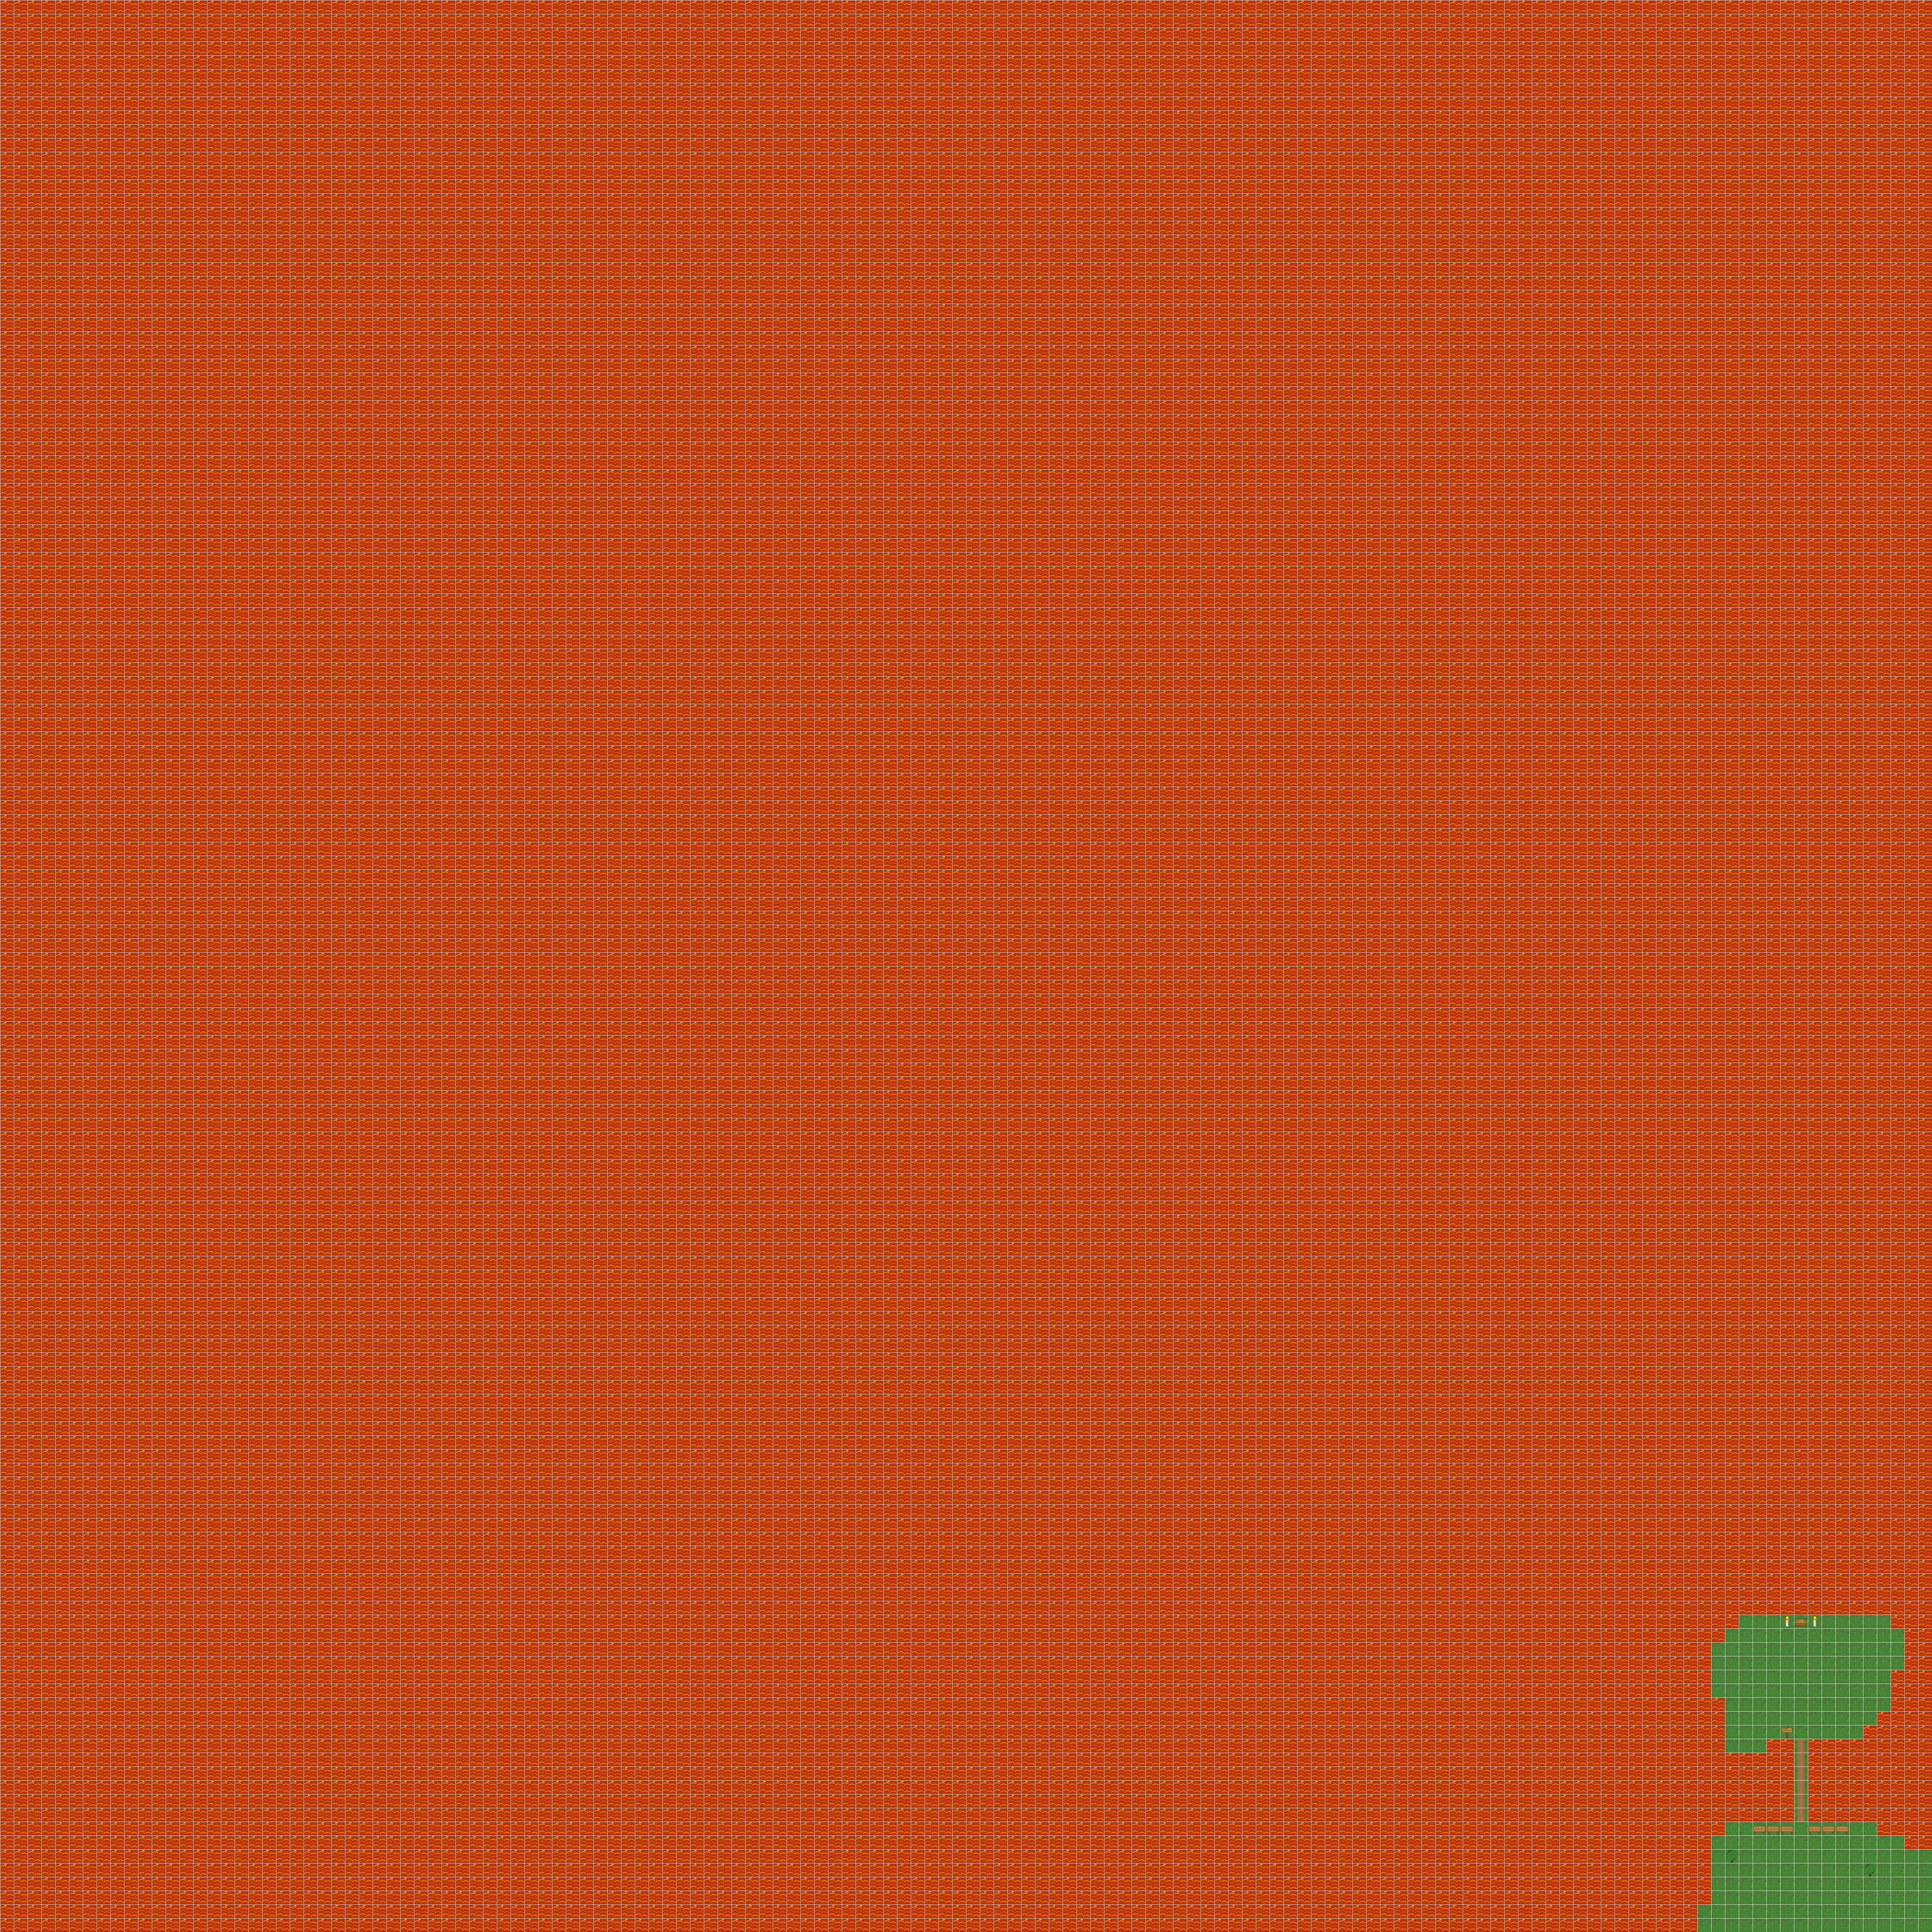
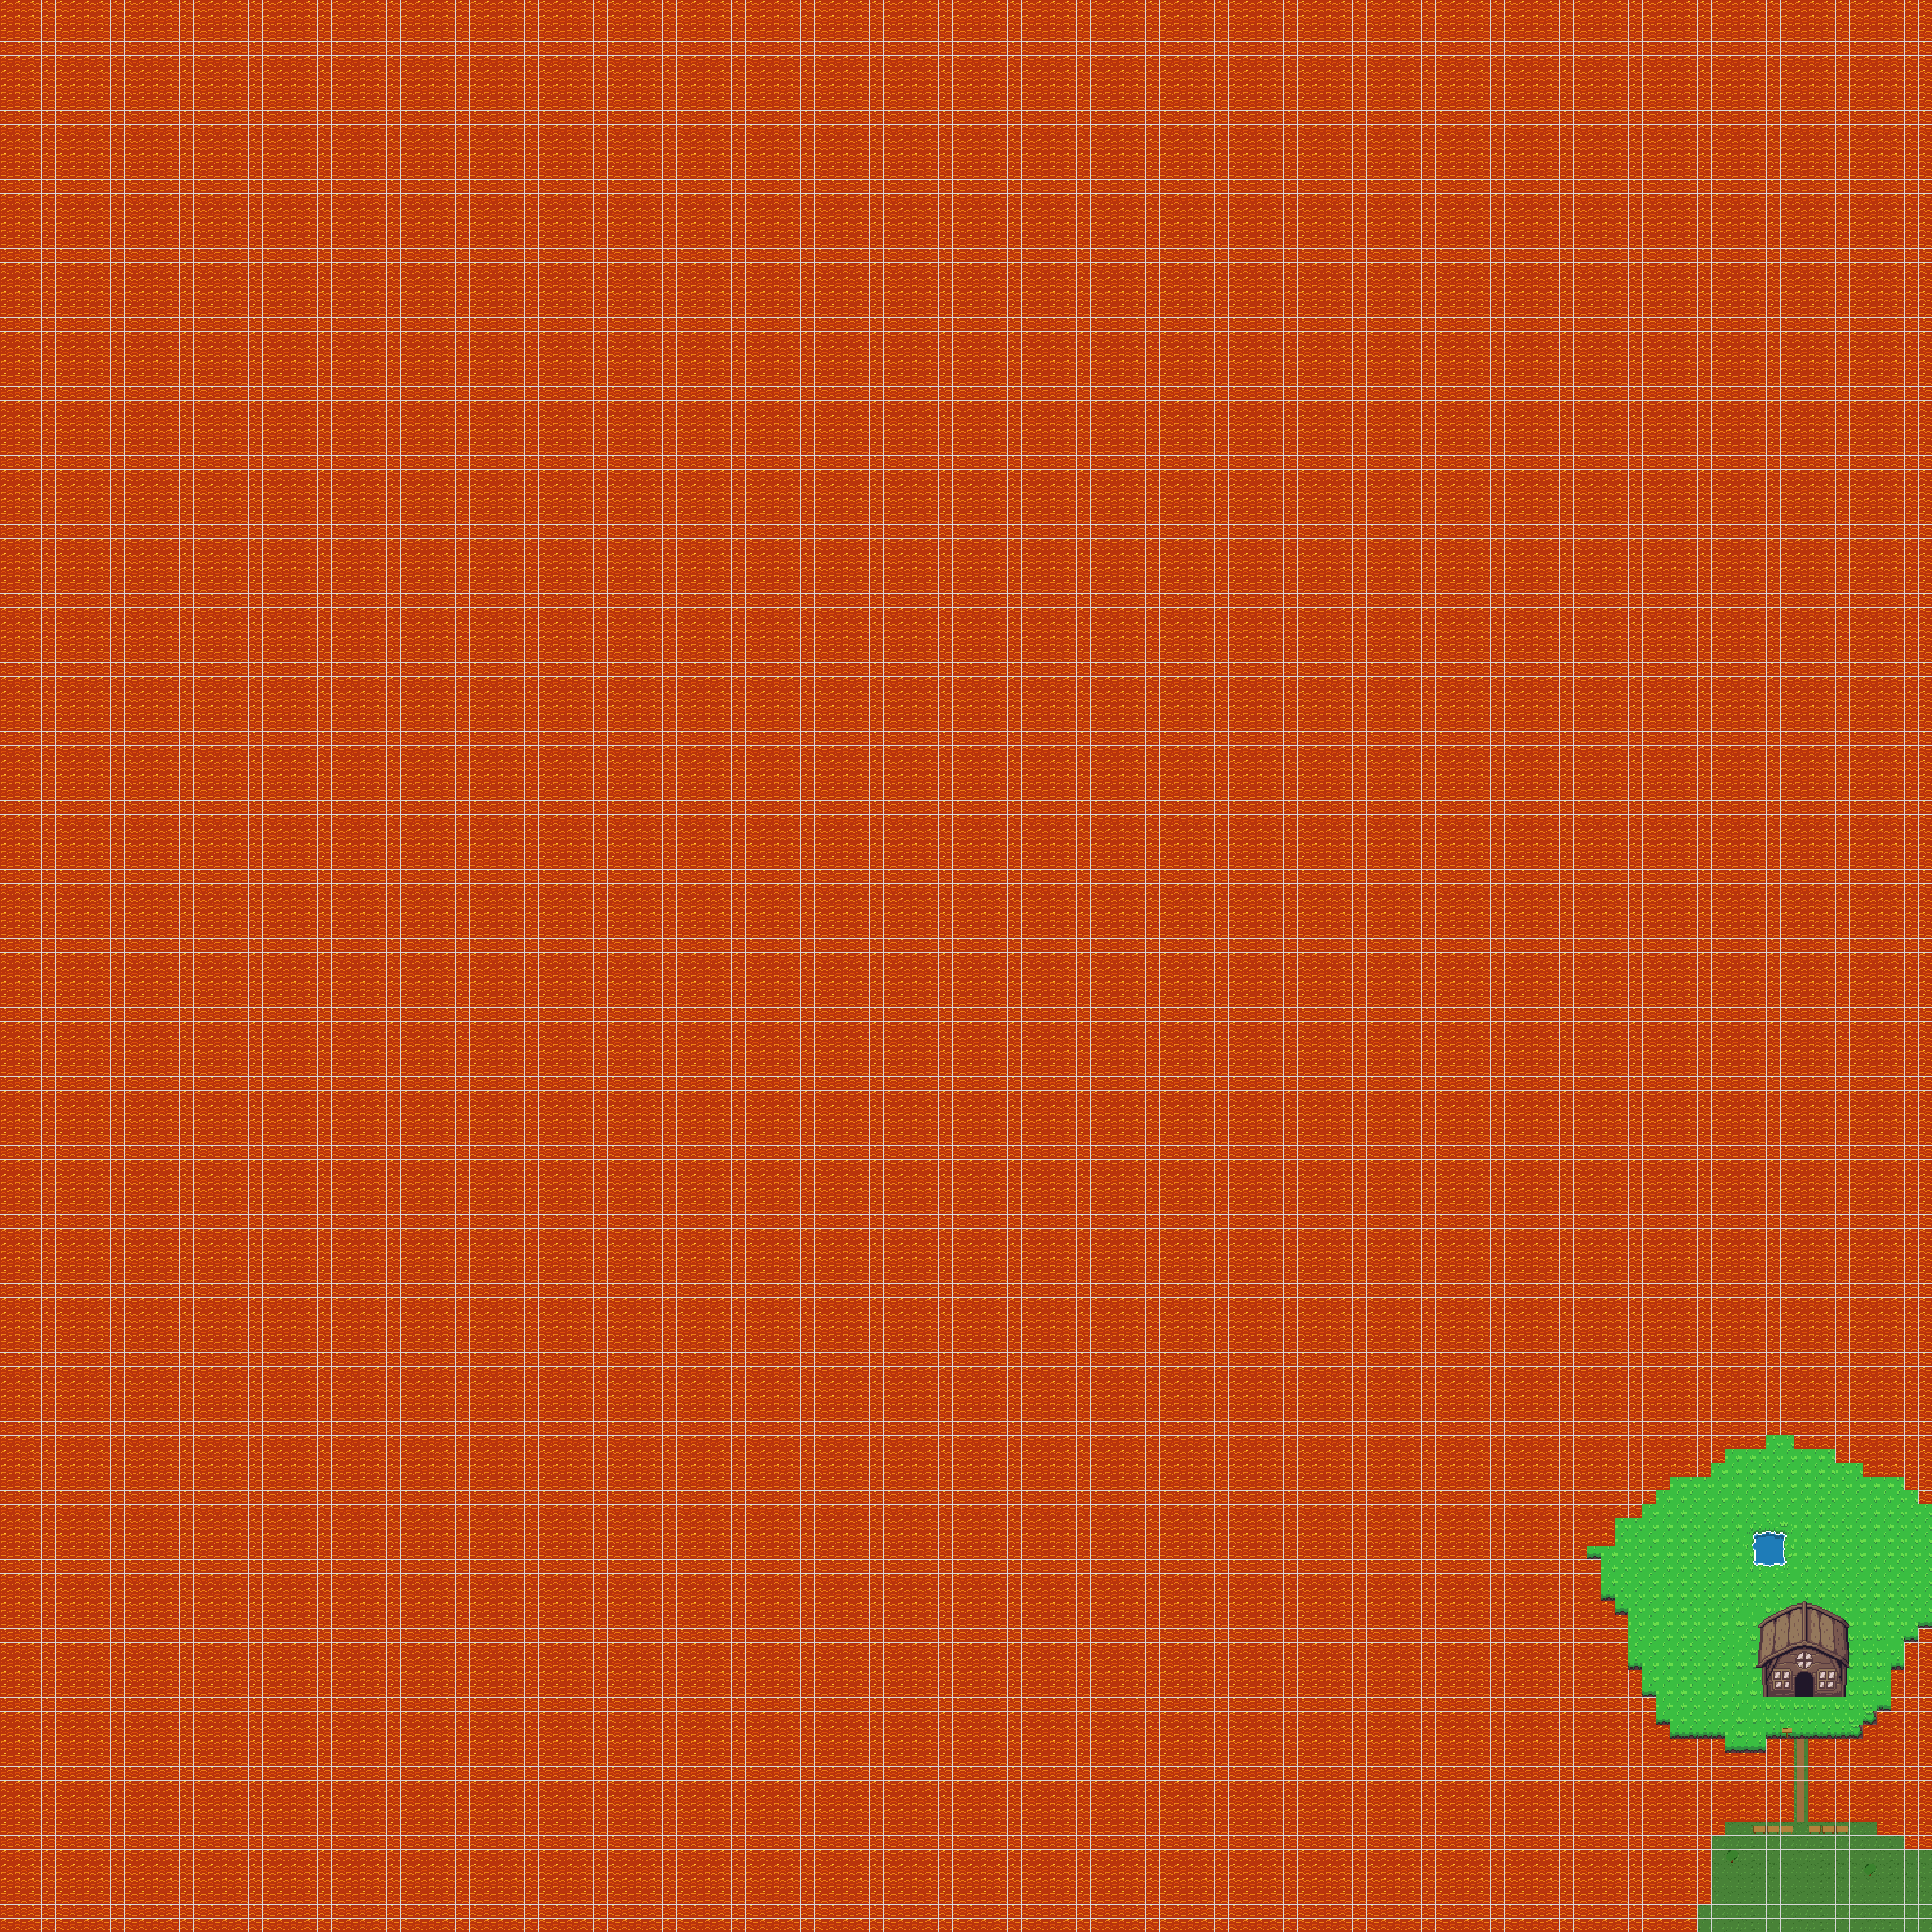
...

Changed region(s): [[0.8125, 0.7188, 1.0, 0.9062]]

diff --git a/assets/maps/damien-smyth-rocky-grass-tilesheet-showcase.tsx b/assets/maps/damien-smyth-rocky-grass-tilesheet-showcase.tsx
@@ -1,0 +1,4 @@
+<?xml version="1.0" encoding="UTF-8"?>
+<tileset version="1.10" tiledversion="1.12.1" name="damien-smyth-rocky-grass-tilesheet-showcase" tilewidth="128" tileheight="128" tilecount="192" columns="12">
+ <image source="../../../../Downloads/damien-smyth-rocky-grass-tilesheet-showcase.jpg" width="1536" height="2048"/>
+</tileset>